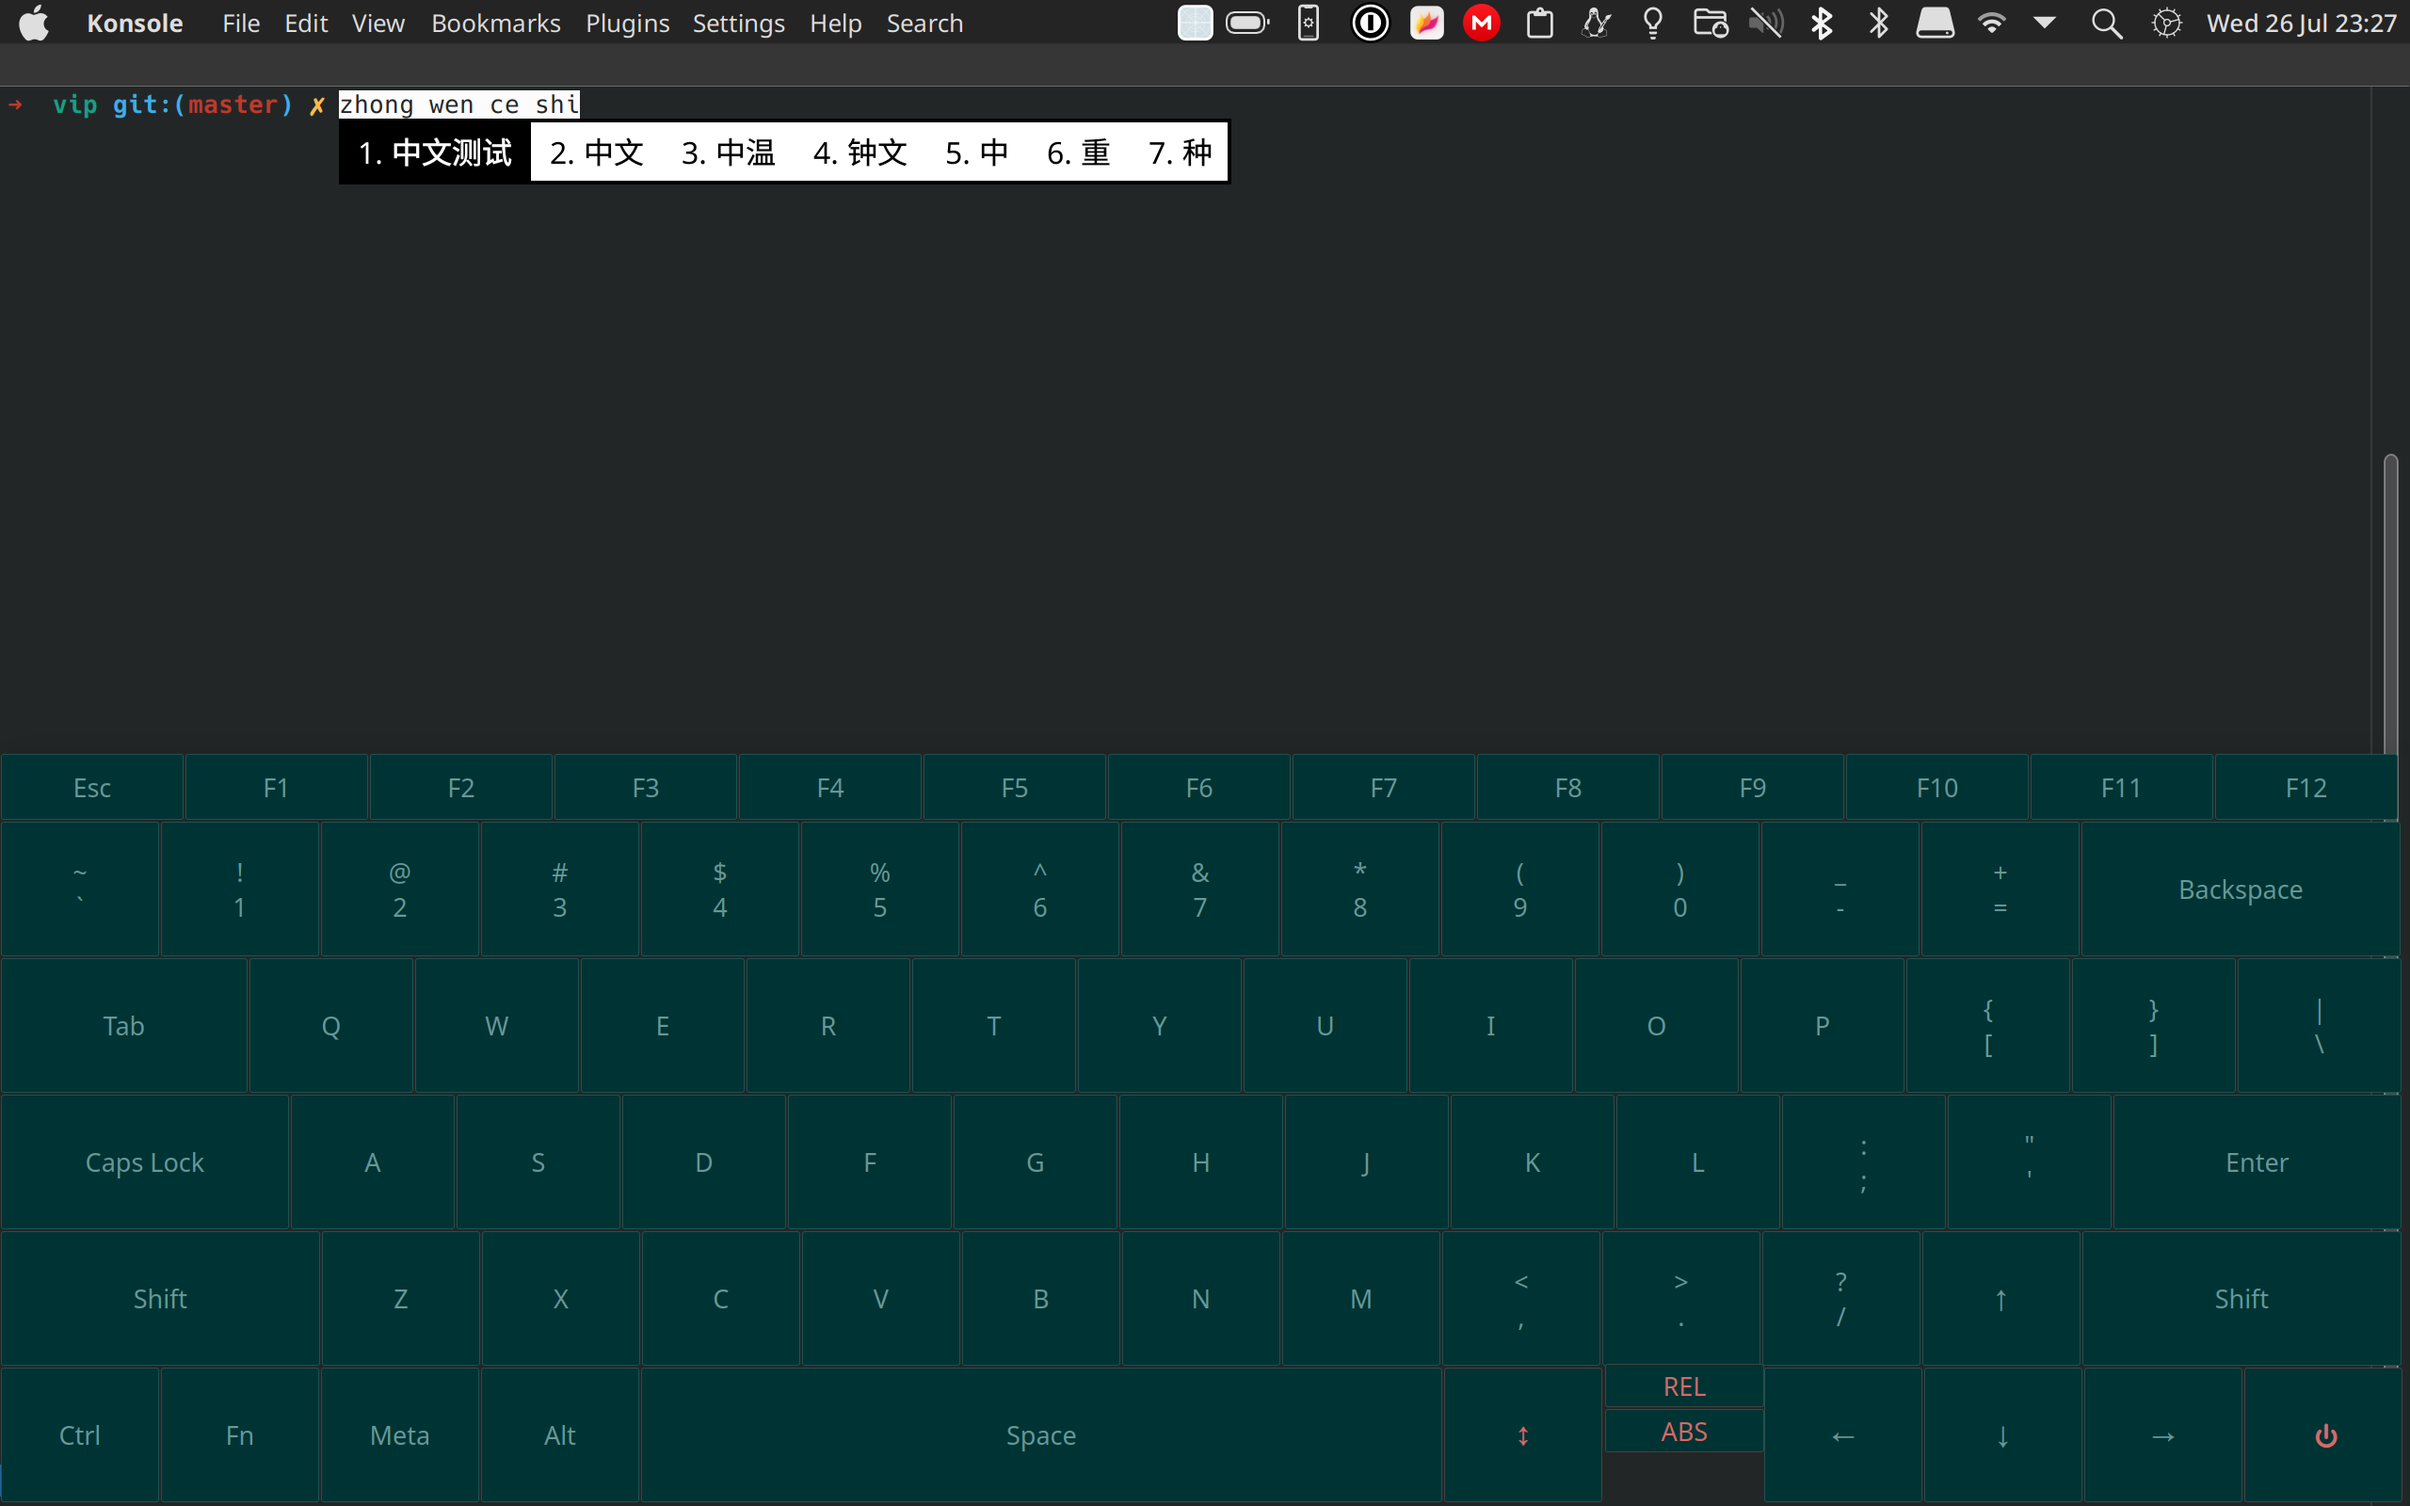
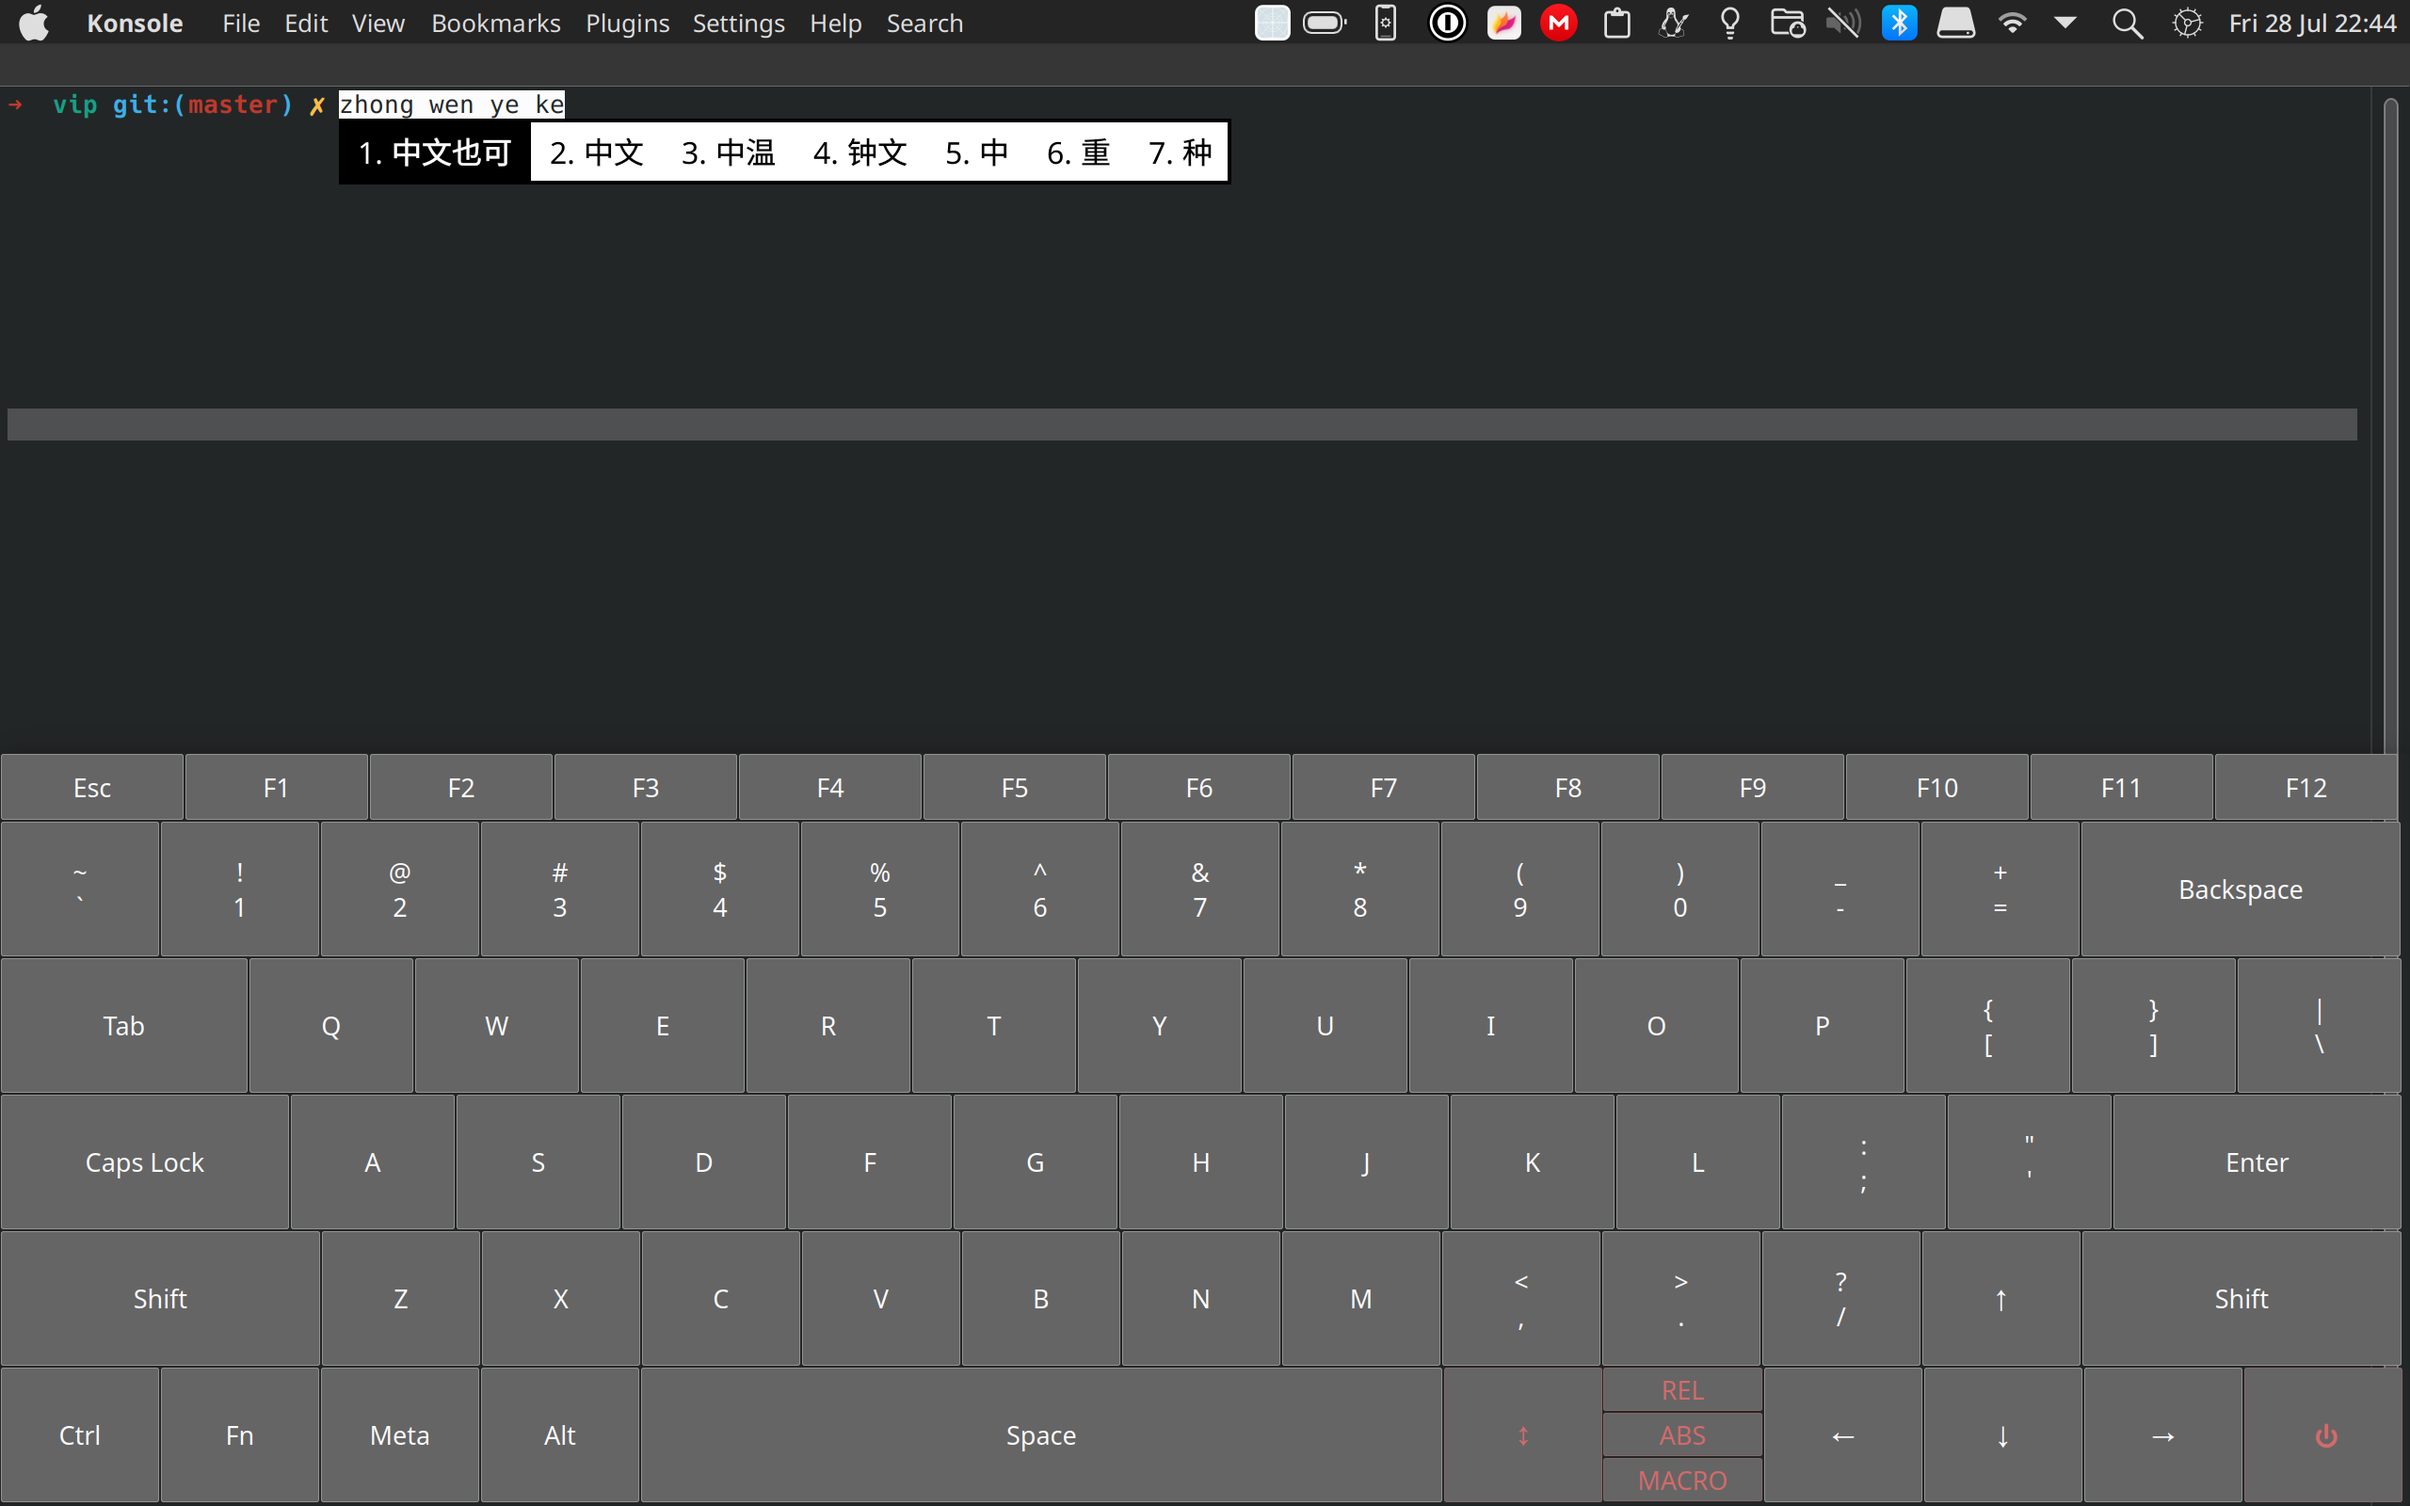
Macro Key

diff --git a/key.cpp b/key.cpp
@@ -1,5 +1,6 @@
 #include <QTouchEvent>
 #include <QDebug>
+#include <QJsonArray>
 #include <linux/uinput.h>
 #include <unistd.h>
 #include "keyboard.h"
@@ -171,4 +172,60 @@ void RepositionKey::updated(QEvent *event)
     prevTouchY = currentTouchY;
 
     parentWidget()->move(parentWidget()->x(), parentWidget()->y() + deltaY);
+}
+
+MacroKey::MacroKey(int x, int y, int w, int h, QJsonArray macro,
+                   QString label, QString stylesheet, QWidget *parent)
+    : Key(x, y, w, h, label, stylesheet, parent)
+{
+    this->macro = macro;
+}
+
+void MacroKey::released([[maybe_unused]] QEvent *event)
+{
+    processMacro(macro, 0, macro.size());
+}
+
+void MacroKey::processMacro(const QJsonArray &p, int start, int n)
+{
+    if (start + n > p.size())
+        qWarning() << "MacroKey::processMacro() : Invalid macro size";
+
+    int i = start;
+    while (i < start + n)
+    {
+        QJsonArray action = p[i].toArray();
+        int size = action.size();
+        switch (size)
+        {
+        case 1:
+        {
+            usleep(action[0].toInt());
+            break;
+        }
+        case 2:
+        {
+            int lines = action[0].toInt();
+            int repeat = action[1].toInt();
+            for (int j = 0; j < repeat; j++)
+                processMacro(p, i + 1, lines);
+            i += lines;
+            break;
+        }
+        case 3:
+        {
+            int type = action[0].toInt();
+            int code = action[1].toInt();
+            int val = action[2].toInt();
+            emitKey(KEYBOARD_FD, type, code, val);
+            break;
+        }
+        default:
+        {
+            qWarning() << "Invalid macro size at index" << i;
+            exit(1);
+        }
+        }
+        i++;
+    }
 }

diff --git a/keyboard.cpp b/keyboard.cpp
@@ -225,7 +225,7 @@ void Keyboard::setupRows(QSharedPointer<QJsonObject> layout)
         {
             QJsonObject keyObject = rowKeys[j].toObject();
             int width = (int)(unitWidth * rowKeys[j].toObject()["columnSpan"].toDouble());
-            setupKey(&keyObject, x, y, width, height);
+            setupKey(layout, &keyObject, x, y, width, height);
             x += width;
         }
 
@@ -250,11 +250,12 @@ void Keyboard::setupCustomKeys(QSharedPointer<QJsonObject> layout)
             qWarning() << "Invalid Custom Key";
             exit(1);
         }
-        setupKey(&keyObject, x, y, w, h);
+        setupKey(layout, &keyObject, x, y, w, h);
     }
 }
 
-void Keyboard::setupKey(QJsonObject *keyObject, int x, int y, int w, int h)
+void Keyboard::setupKey(QSharedPointer<QJsonObject> layout, QJsonObject *keyObject,
+                        int x, int y, int w, int h)
 {
     int code = 0;
     QString label;
@@ -371,6 +372,23 @@ void Keyboard::setupKey(QJsonObject *keyObject, int x, int y, int w, int h)
             exit(1);
         }
         }
+    }
+    else if (type == "macro")
+    {
+        QString keyStylesheet = "";
+        int macro = (*keyObject)["macro"].toInt();
+
+        if (keyObject->contains("label"))
+            label = (*keyObject)["label"].toString();
+        else
+            label = macro;
+        if (keyObject->contains("styleSheet"))
+            keyStylesheet = (*keyObject)["styleSheet"].toString();
+
+        MacroKey *key = new MacroKey(x, y, w, h,
+                                     (*layout)["macros"].toArray()[macro].toArray(),
+                                     label, keyStylesheet, this);
+        keys.append(key);
     }
     else
     {

diff --git a/key.h b/key.h
@@ -1,6 +1,7 @@
 #pragma once
 
 #include <QPushButton>
+#include <QJsonArray>
 
 extern int fd;
 
@@ -90,3 +91,18 @@ protected:
 };
 
 #define SPECIAL_PLACEHOLDER 2
+
+class MacroKey : public Key
+{
+#ifdef MOUSE_EVENT
+    Q_OBJECT
+#endif
+public:
+    explicit MacroKey(int x, int y, int w, int h, QJsonArray macro,
+                      QString label, QString stylesheet, QWidget *parent);
+    QJsonArray macro;
+
+protected:
+    void released(QEvent *event) override;
+    void processMacro(const QJsonArray &p, int start, int n);
+};

diff --git a/keyboard.h b/keyboard.h
@@ -22,6 +22,6 @@ protected:
     void setupUI(QSharedPointer<QJsonObject> layout);
     void setupRows(QSharedPointer<QJsonObject> layout);
     void setupCustomKeys(QSharedPointer<QJsonObject> layout);
-    void setupKey(QJsonObject *keyObject,
+    void setupKey(QSharedPointer<QJsonObject> layout, QJsonObject *keyObject,
                   int x, int y, int w, int h);
 };

diff --git a/README.md b/README.md
@@ -34,6 +34,7 @@ sudo chmod 4755 build/vip
 7. Seamless recognition of simultaneous key presses.
 8. Panel repositioning enabled through dragging the reposition key.
 9. Dynamic pointer movement simulation (relative or absolute).
+10. Macro execution for a sequence of actions with a single key press(keys, mouses, sleeps, nested loops).
 
 ## Notes
 
@@ -86,6 +87,14 @@ The following is a detailed documentation for the JSON representation of a keybo
 
   - style (string, optional): The CSS style for the key. It is a string that can be used to specify the style of the key. For example, "background-color: #ffffff; color: #000000".
 
+- macros (array, optional): An array of objects representing macros. Macros are predefined sequences of actions that can be executed by pressing a single key. For example, a macro can be used to execute a sequence of key presses to open a specific application. Macros are executed in the order they are defined in the array.
+
+  - length = 1: sleep array[0] microseconds
+
+  - length = 2: repeat previous array[0] actions for array[1] times
+
+  - length = 3: calls key actions with type = array[0], code = array[1], value = array[2]
+
 This JSON representation aims to provide a comprehensive and flexible way to describe keyboard layouts while supporting easy modifications and extensions in the future. It allows for capturing various keyboard configurations, key types, and weights to accommodate different key sizes and layouts in modern keyboard designs.
 
 ## Key types
@@ -95,6 +104,8 @@ This JSON representation aims to provide a comprehensive and flexible way to des
 ### Mouse key
 
 ### Special key
+
+### Macro key
 
 ## TODO
 
@@ -109,9 +120,10 @@ This JSON representation aims to provide a comprehensive and flexible way to des
   - [x] Relative update: requires `BUTTON_LEFT` to function
   - [x] Absolute update: requires struct uinput_abs_setup setup
 - [x] PKGBUILD: package build script used in Arch Linux and related distributions.
-- [ ] Input macro: Future support for input macros, allowing users to create and execute predefined sequences of actions.
+- [x] Input macro: allowing users to create and execute predefined sequences of actions.
 - [ ] System level config: System-level configuration at /etc/vip.d/\*.json
 - [ ] Layout switch: Implementation of a layout switch feature to enable users to change the keyboard layout dynamically.
+- [ ] Improve README.md: Add more details to the README.md file, especially for the JSON representation and key types.
 - [ ] Haptic feedback: Addition of sound/effects for both key press and release events to enhance user experience.
 - [ ] Spoofing: spoof the device's vendor id and name.
 - [ ] Spacing config: Option to configure the spacing between keys and elements for better layout customization.
